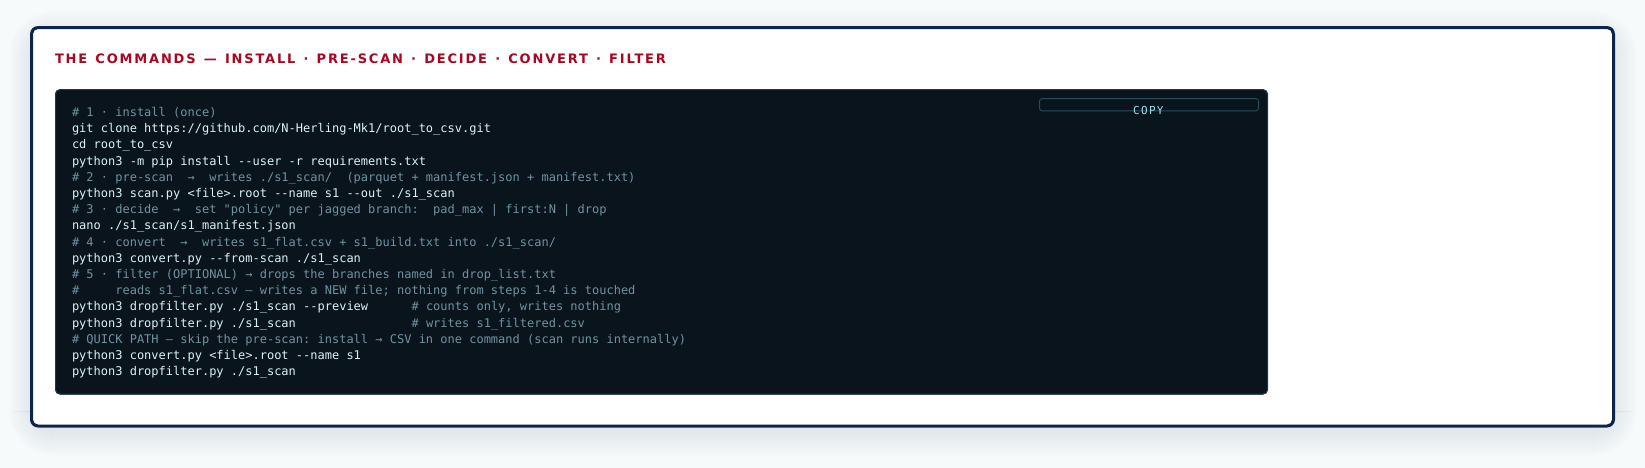
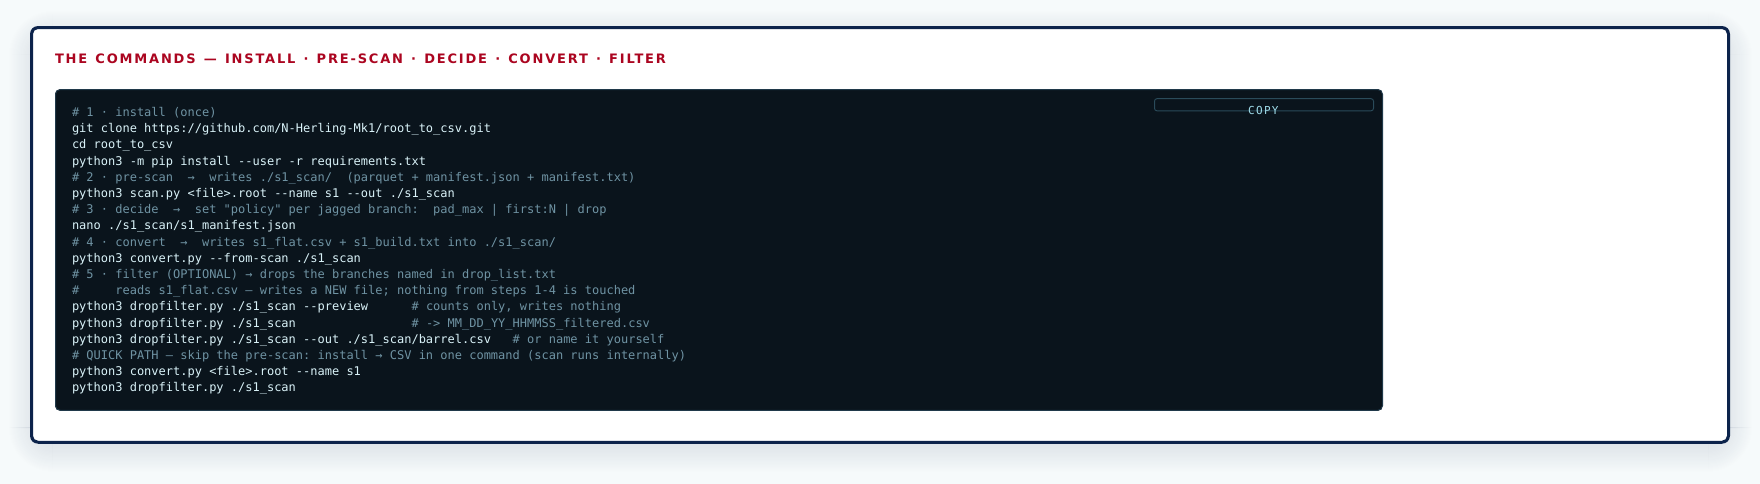
working on formatting output

Changed region(s): [[0.0, 0.0598, 0.9921, 0.9274]]

diff --git a/pages/tier1.html b/pages/tier1.html
@@ -66,7 +66,8 @@ python3 convert.py --from-scan ./s1_scan
 <span class="cm"># 5 · filter (OPTIONAL) → drops the branches named in drop_list.txt</span>
 <span class="cm">#     reads s1_flat.csv — writes a NEW file; nothing from steps 1-4 is touched</span>
 python3 dropfilter.py ./s1_scan --preview      <span class="cm"># counts only, writes nothing</span>
-python3 dropfilter.py ./s1_scan                <span class="cm"># writes s1_filtered.csv</span>
+python3 dropfilter.py ./s1_scan                <span class="cm"># -&gt; MM_DD_YY_HHMMSS_filtered.csv</span>
+python3 dropfilter.py ./s1_scan --out ./s1_scan/barrel.csv   <span class="cm"># or name it yourself</span>
 <span class="cm"># QUICK PATH — skip the pre-scan: install → CSV in one command (scan runs internally)</span>
 python3 convert.py &lt;file&gt;.root --name s1
 python3 dropfilter.py ./s1_scan</div>
@@ -89,7 +90,18 @@ python3 dropfilter.py ./s1_scan</div>
     branches   227 -&gt; 110   (117 dropped)
     columns    24,925 -&gt; 85   (24,840 removed, 99.7%)
     master     ./v1_scan/v1_canonical.parquet - UNCHANGED
-  ==============================================================</div>
+  ==============================================================
+  VERIFICATION
+    OK    columns written    85  (expected 85)
+    OK    rows written       423  (source had 423)
+    OK    rectangular        every row the same width
+    OK    dropped columns    none present in the output
+    OK    source flat.csv    UNCHANGED (size+mtime+md5)
+    OK    canonical.parquet  UNCHANGED (size+mtime+md5)
+
+  ###[filtered .csv]#####
+  ---&gt; 09_11_26_150421_filtered.csv
+  #######################</div>
     <h4 class="s1h">COPY RESULTS DOWN &nbsp;(from your local machine, after a run)</h4>
     <div class="cmd"><button data-copy>COPY</button>scp -r user@atlng02.physics.arizona.edu:/path/to/s1_scan .</div>
     </div><!-- /s1main -->
@@ -121,11 +133,13 @@ python3 dropfilter.py ./s1_scan</div>
 
 <section>
   <div class="warn" style="border-color:var(--amber);background:#fffaf2">
-    <b>&#9998; THE ONE FILE YOU AUTHOR — <code>drop_list.txt</code></b>
-    Step 3 <i>edits</i> a file the toolkit wrote for you. Step 5 is different:
-    <code>drop_list.txt</code> does not exist until you make it. Plain text,
-    one branch name per line, <code>#</code> comments allowed. No file present
-    = step 5 is a clean no-op and the pipeline still succeeds.
+    <b>&#9998; THE ONE FILE YOU EDIT — <code>drop_list.txt</code></b>
+    It <b>ships with the repo</b>, at the root beside <code>scan.py</code>, and
+    is found automatically from any working directory &mdash; step 5 needs no
+    path. Plain text, one branch name per line, <code>#</code> comments and
+    blank lines skipped, so you can annotate freely and comment a name out
+    instead of deleting it. Edit it and re-run; delete it and step 5 becomes a
+    clean no-op while the rest of the pipeline still succeeds.
     <br><br>
     Names are matched against branch names in <code>manifest.json</code>, not
     against CSV column headers &mdash; write <code>trackID_pt</code>, never
@@ -227,13 +241,13 @@ python3 dropfilter.py ./s1_scan</div>
       <text x="582" y="402" fill="var(--ink)">s1_build.txt — build receipt</text>
 
       <rect x="570" y="440" width="300" height="30" rx="5" fill="#fffaf2" stroke="var(--amber)" stroke-width="2.5"/>
-      <text x="582" y="460" fill="var(--ink)">drop_list.txt — YOU WRITE THIS</text>
+      <text x="582" y="460" fill="var(--ink)">drop_list.txt — SHIPS · YOU EDIT IT</text>
       <text x="846" y="460" fill="var(--amber-ink)" font-size="13">&#9998;</text>
 
       <rect x="570" y="492" width="300" height="30" rx="5" fill="var(--bg)" stroke="var(--amber-ink)"/>
-      <text x="582" y="512" fill="var(--ink)">s1_filtered.csv — the trimmed table</text>
+      <text x="582" y="512" fill="var(--ink)">&lt;stamp&gt;_filtered.csv — the trimmed table</text>
       <rect x="570" y="528" width="300" height="30" rx="5" fill="var(--bg)" stroke="var(--amber-ink)"/>
-      <text x="582" y="548" fill="var(--ink)">s1_drop_report.txt — the audit</text>
+      <text x="582" y="548" fill="var(--ink)">&lt;stamp&gt;_drop_report.txt — the audit</text>
     </g>
 
     <!-- production arrows -->

diff --git a/pages/ignored.html b/pages/ignored.html
@@ -116,7 +116,9 @@ nano drop_list.txt
 <span class="cm"># see what it would do — counts only, writes nothing</span>
 python3 dropfilter.py ./s1_scan --preview
 <span class="cm"># apply it — writes s1_filtered.csv + s1_drop_report.txt</span>
-python3 dropfilter.py ./s1_scan</div>
+python3 dropfilter.py ./s1_scan
+<span class="cm"># or choose the output name yourself</span>
+python3 dropfilter.py ./s1_scan --out ./s1_scan/barrel_only.csv</div>
 </section>
 
 <section>
@@ -160,9 +162,13 @@ python3 dropfilter.py ./s1_scan</div>
         untouched, all columns. Step 5 writes a new file rather than editing this one.</td></tr>
       <tr><td><code>s1_manifest.json</code> / <code>.txt</code></td><td><span class="tx-ok">&#10003;</span>
         untouched. Still the full census of all branches.</td></tr>
-      <tr><td><code>s1_filtered.csv</code></td><td>new &mdash; the trimmed table.</td></tr>
-      <tr><td><code>s1_drop_report.txt</code></td><td>new &mdash; every match, every
-        no-op, any name that matched nothing, and the verification block.</td></tr>
+      <tr><td><code>&lt;stamp&gt;_filtered.csv</code></td><td>new &mdash; the trimmed
+        table. Auto-named from the clock (<code>MM_DD_YY_HHMMSS</code>), so a
+        second run never overwrites the first. <code>--out NAME</code> to name
+        it yourself.</td></tr>
+      <tr><td><code>&lt;stamp&gt;_drop_report.txt</code></td><td>new &mdash; every
+        match, every no-op, any name that matched nothing, and the verification
+        block. Shares the CSV&rsquo;s name so the pair is unambiguous.</td></tr>
     </tbody>
   </table>
   <div class="tip"><b>The run checks itself.</b> After writing, the tool re-opens

diff --git a/index.html b/index.html
@@ -88,7 +88,7 @@
     (e.g. <code>@atlng02.physics.arizona.edu</code>). Pure ssh + python: clone, pip install, run
     <code>scan.py</code> / <code>convert.py</code>. No display, no ports, no
     tunnels — outputs are files you <code>scp</code> down.</p>
-    <div class="shot"><img src="assets/images/tier1_commands.png" width="1645" height="468" alt="tier 1 — the command card" onerror="this.src='assets/images/screenshot_pending.png'"></div>
+    <div class="shot"><img src="assets/images/tier1_commands.png" width="1760" height="484" alt="tier 1 — the command card" onerror="this.src='assets/images/screenshot_pending.png'"></div>
   </div>
       <div class="tpane" id="pane2" role="tabpanel">
     <h2>TIER 2 — VS CODE VIA TUNNELING</h2>

diff --git a/dropfilter.py b/dropfilter.py
@@ -51,8 +51,11 @@ USAGE
     # what would happen - resolve and count, write nothing
     python3 dropfilter.py ./s1_scan --preview
 
-    # do it
+    # do it -> MM_DD_YY_HHMMSS_filtered.csv (a re-run never overwrites)
     python3 dropfilter.py ./s1_scan
+
+    # name it yourself instead
+    python3 dropfilter.py ./s1_scan --out ./s1_scan/barrel_only.csv
 
     # the repo's drop_list.txt is found automatically from any working
     # directory. --drop-file overrides it with a list of your own.
@@ -136,6 +139,20 @@ class Progress:
             print(f"  {note}")
         sys.stdout.flush()
 
+
+
+def _stamp():
+    """MM_DD_YY_HHMMSS — local time, so every run gets its own filename."""
+    return time.strftime("%m_%d_%y_%H%M%S")
+
+
+def _banner(label, value):
+    """The name of what was written, called out so it can't be missed."""
+    inner = f"###[{label}]" + "#" * 5
+    say("")
+    say(inner)
+    say(f"---> {value}")
+    say("#" * len(inner))
 
 def say(msg=""):
     print(msg, flush=True)
@@ -672,7 +689,10 @@ def main(argv=None):
                     help="resolve and count only; write nothing")
     ap.add_argument("--from-parquet", action="store_true",
                     help=argparse.SUPPRESS)   # retired: parquet keeps lists
-    ap.add_argument("--out", default=None, help="output CSV path")
+    ap.add_argument("--out", default=None, metavar="PATH",
+                    help="name the output CSV yourself. Omit it and the file is "
+                         "auto-named MM_DD_YY_HHMMSS_filtered.csv, so a re-run "
+                         "never overwrites an earlier one.")
     ap.add_argument("--report", default=None, help="drop report path")
     ap.add_argument("--allow-unmatched", action="store_true",
                     help="downgrade unmatched drop-list entries to a warning")
@@ -768,8 +788,9 @@ def main(argv=None):
     out_path = None
     verify_lines, verify_ok = [], None
     if not args.preview:
-        stem = found["name"] or "out"
-        out_path = args.out or os.path.join(args.scan_dir, f"{stem}_filtered.csv")
+        stamp = _stamp()
+        out_path = args.out or os.path.join(args.scan_dir,
+                                            f"{stamp}_filtered.csv")
 
         # fingerprint every input we promise not to touch, BEFORE writing
         watch = {"csv": found["csv"], "parquet": found["parquet"],
@@ -798,10 +819,17 @@ def main(argv=None):
         "candidates": candidates, "cand_threshold": args.suggest_width,
         "verify_lines": verify_lines, "verify_ok": verify_ok,
     }
-    stem = found["name"] or "out"
-    report_path = args.report or os.path.join(args.scan_dir, f"{stem}_drop_report.txt")
-    if args.preview and args.report is None:
-        report_path = None
+    # the report shares the CSV's stamp so the pair is unambiguous
+    if args.preview:
+        report_path = args.report
+    elif args.report:
+        report_path = args.report
+    else:
+        base = os.path.basename(out_path)
+        base = base[:-len("_filtered.csv")] if base.endswith("_filtered.csv") \
+            else os.path.splitext(base)[0]
+        report_path = os.path.join(os.path.dirname(out_path) or ".",
+                                   f"{base}_drop_report.txt")
     write_report(report_path, ctx)
 
     # ---- synopsis -------------------------------------------------------
@@ -844,6 +872,11 @@ def main(argv=None):
             f" columns - advisory, see report")
     say(f"  elapsed    {time.time() - t0:.1f}s")
     rule("=")
+
+    if out_path and verify_ok is not False:
+        _banner("filtered .csv", os.path.basename(out_path))
+        if report_path:
+            _banner("drop report", os.path.basename(report_path))
 
     if verify_ok is False:
         say("")

diff --git a/README.md b/README.md
@@ -87,7 +87,8 @@ The manifest's `len_med / len_p95 / len_max` per branch shows you where
 
 ```bash
 python3 dropfilter.py ./s1_scan --preview   # resolve + count, write nothing
-python3 dropfilter.py ./s1_scan             # write s1_filtered.csv
+python3 dropfilter.py ./s1_scan             # -> MM_DD_YY_HHMMSS_filtered.csv
+python3 dropfilter.py ./s1_scan --out ./s1_scan/barrel.csv    # or name it
 ```
 
 Removes whole branches named in `drop_list.txt`. Reads `flat.csv` and writes a
@@ -104,7 +105,8 @@ runs on a copied-down scan directory.
 
 ### The drop list
 
-`drop_list.txt` ships with the repo. Plain text, one **branch** name per line;
+`drop_list.txt` **ships with the repo**, at the root beside `scan.py` — there
+is nothing to create. Plain text, one **branch** name per line;
 `#` comments and blank lines are skipped, inline comments too.
 
 ```
